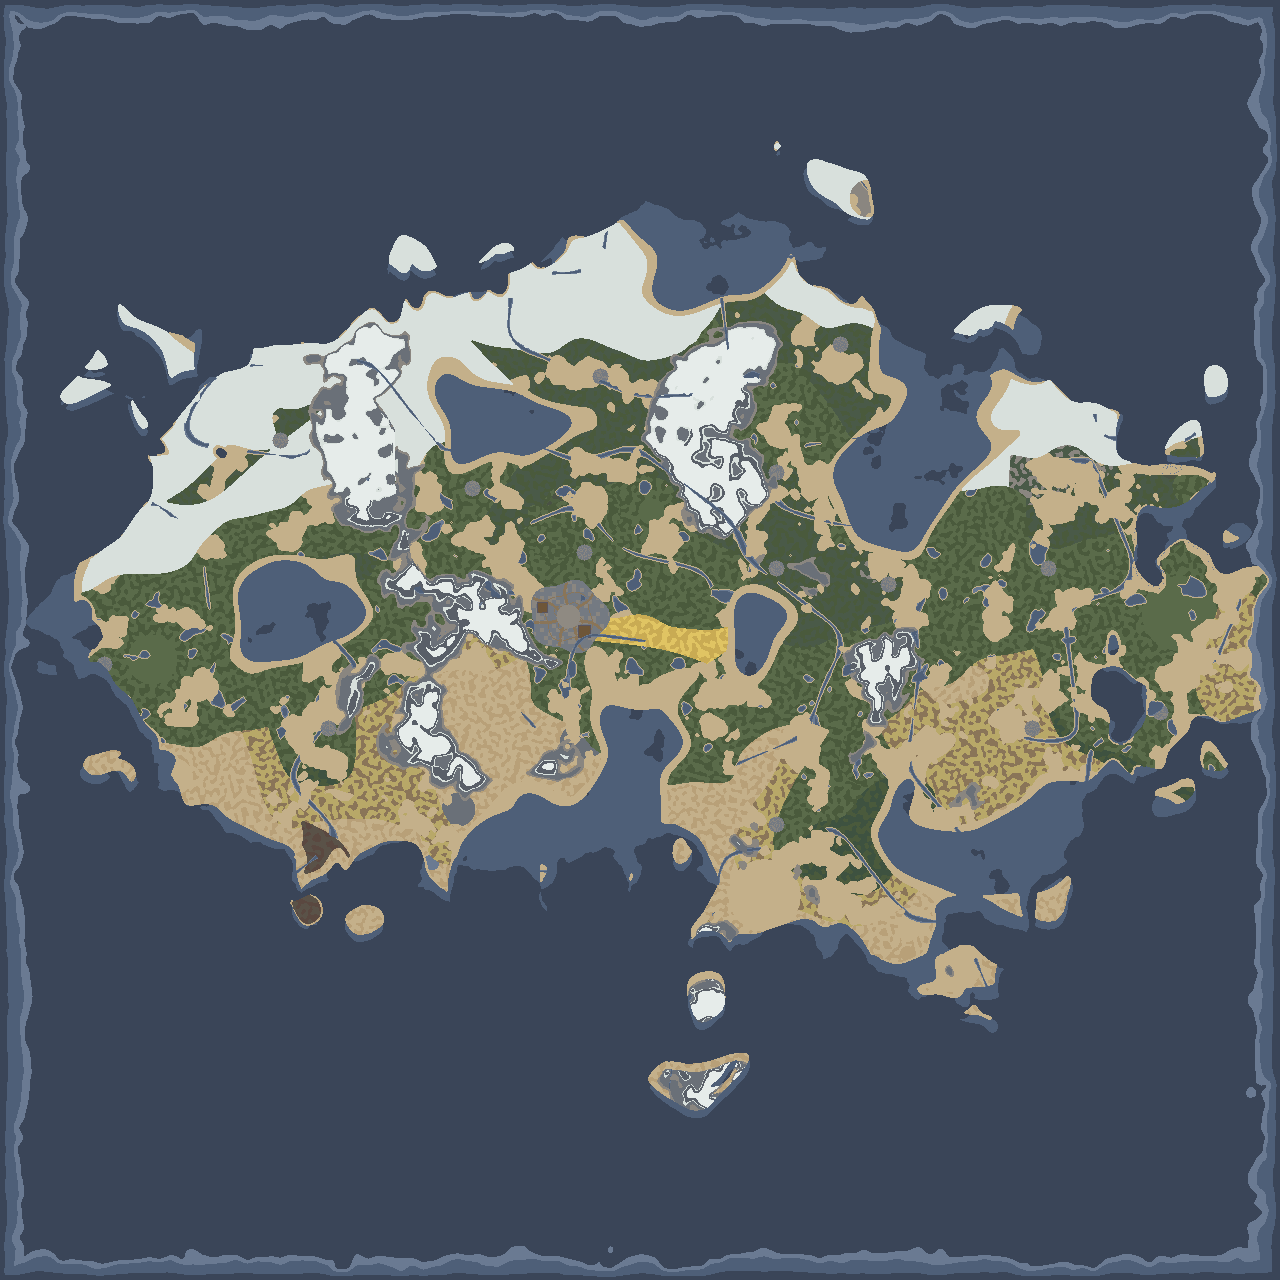
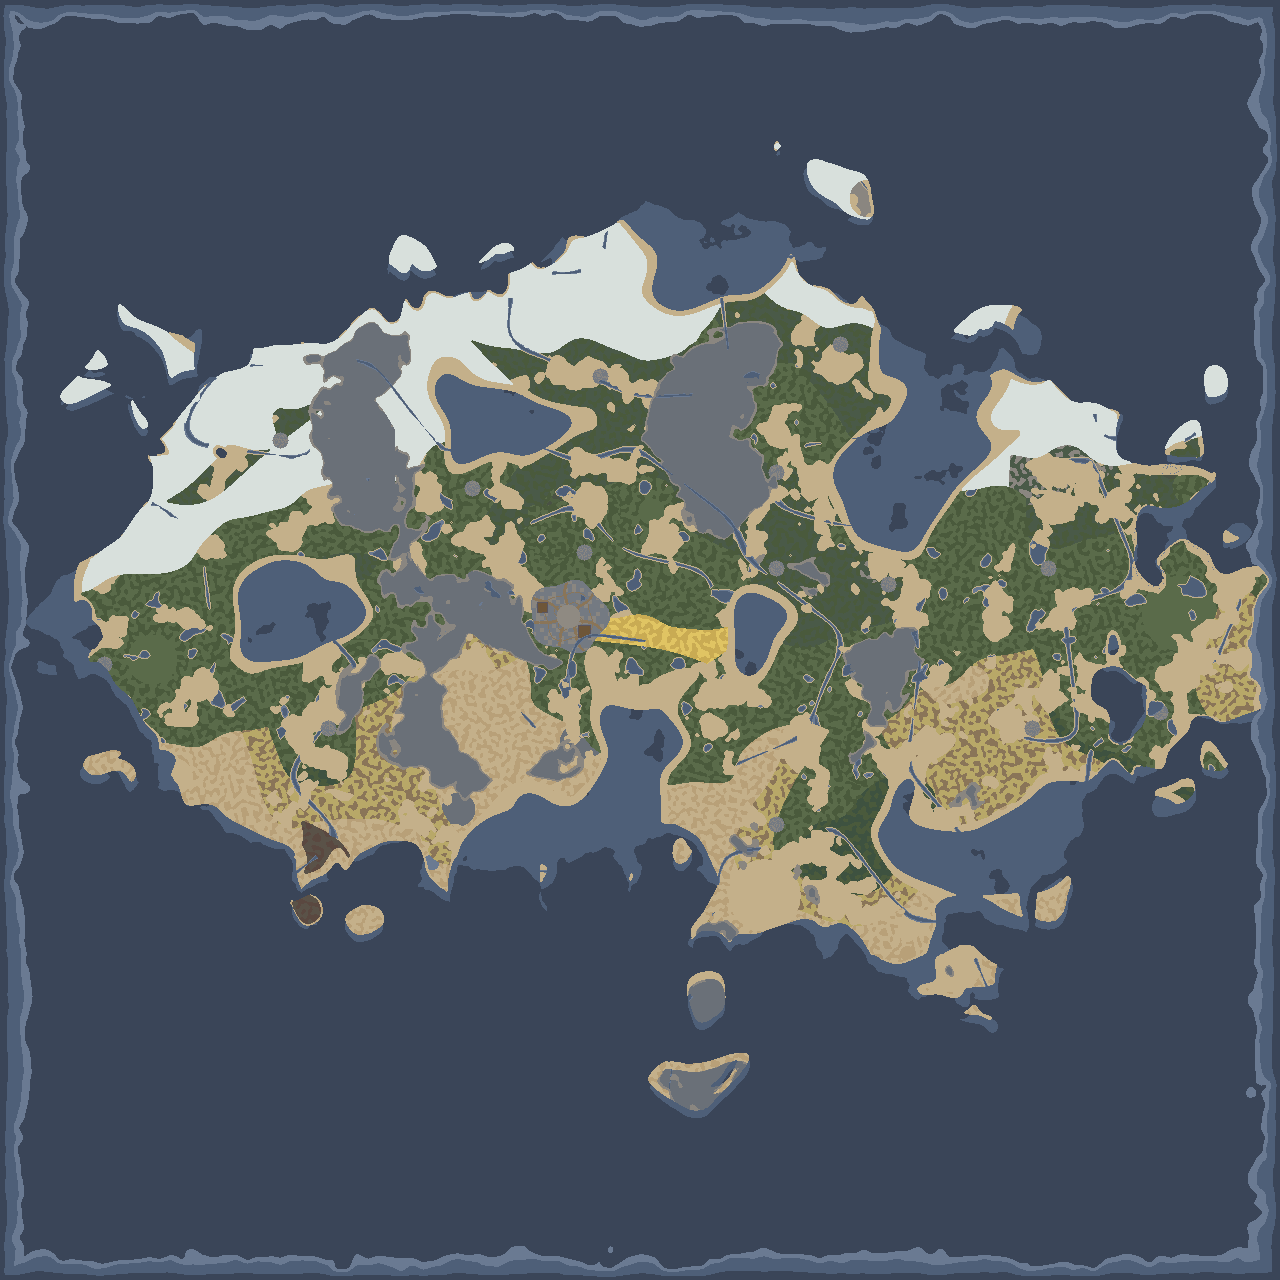
fix(world): peak picking + mountain occlusion revert; noclip; macOS tooling
Elevation picking: ELEV_PICK_MAX 42->52 so the cursor/click picker searches
the full peak range — tall summits resolve to the real tile instead of the
flat tile in front (which read elev 0).

Mountains: revert the per-chunk elevated-mesh overlay split (it black-holed
terrain); raised terrain renders through the base mesh again. The occlusion
overlay is left in place but disabled until its render bug is fixed. The
short-lived elevation "wall floor" / climb-step=2 experiment is reverted, and
aldreth.world is re-baked from the restored elevation code.

Admin: noclip fly toggle (2x speed, ignores terrain and pathfinding).

Tooling: add cross-platform dev.sh launcher (auto-detects Godot on macOS/
Linux/Git-Bash) and document Apple Silicon (M-series) setup in the README so
the project can be developed and run on a Mac.

diff --git a/README.md b/README.md
@@ -5,15 +5,44 @@ recreated from the Bloobs Adventure Idle data export.
 
 ## Run
 
-```powershell
-# Play
-C:\Dev\Godot\Godot_v4.6.3-stable_win64.exe --path C:\Dev\bloobs-godot
+Needs **Godot 4.6** (standard build — pure GDScript, no .NET/C#). The project is
+cross-platform: it runs on macOS (Apple Silicon included), Linux, and Windows with
+the same engine.
 
-# Re-import game data from the export (writes res://data/*.json)
-C:\Dev\Godot\Godot_v4.6.3-stable_win64_console.exe --headless --path C:\Dev\bloobs-godot --script res://tools/import_bloobs_data.gd
+The `dev.sh` launcher finds your Godot binary so you don't hardcode a path. Works
+in any bash shell (macOS/Linux terminals, or Git Bash on Windows):
 
-# Headless test suite (49 checks across data, gathering, combat, crafting, save, UI)
-C:\Dev\Godot\Godot_v4.6.3-stable_win64_console.exe --headless --path C:\Dev\bloobs-godot res://tools/validate.tscn
+```bash
+./dev.sh run        # play the game
+./dev.sh editor     # open the Godot editor
+./dev.sh validate   # headless test suite
+./dev.sh bake       # re-bake the finite overworld (headless, CPU-only)
+./dev.sh atlas      # re-bake the sprite atlas (opens a window — needs a GPU)
+```
+
+If Godot isn't on your `PATH`, point the launcher at it: `GODOT=/path/to/Godot ./dev.sh run`.
+
+### Develop on a Mac (Apple Silicon — M1…M5)
+
+1. Download **Godot 4.6, macOS, Standard** from <https://godotengine.org/download/macos/>
+   and drag `Godot.app` into `/Applications`. (`dev.sh` auto-detects it there.)
+2. Clone the repo and `cd` into it.
+3. `./dev.sh editor` to open it, or `./dev.sh run` to play. First launch reimports
+   assets into `.godot/` (gitignored) — that's normal and only happens once.
+
+The renderer is **Forward+**, which runs natively on Apple Silicon via Metal — no
+config change needed. The baked overworld (`data/world/baked/`) and sprite atlas
+(`generated/sprite_atlas/`) are committed, so the game runs without re-baking; only
+re-run `./dev.sh bake` / `./dev.sh atlas` after editing worldspec or art.
+
+Raw invocation, if you skip the launcher:
+
+```bash
+# macOS
+/Applications/Godot.app/Contents/MacOS/Godot --path . res://tools/validate.tscn --headless
+
+# Windows
+C:\Dev\Godot\Godot_v4.6.3-stable_win64_console.exe --headless --path . res://tools/validate.tscn
 ```
 
 ## Architecture
@@ -57,5 +86,4 @@ documented in [docs/DATA_GAPS.md](docs/DATA_GAPS.md).
   the fishing sector), and OSRS-style HUD. Same sims as the Melvor UI —
   `scenes/main.tscn` remains for headless UI smoke tests.
 
-Run the game: "C:\Dev\Godot\Godot_v4.6.3-stable_win64.exe" --path C:\Dev\imota-idle
-Run the editor: "C:\Dev\Godot\Godot_v4.6.3-stable_win64.exe" --path C:\Dev\imota-idle res://tools/world_editor.tscn
+Run the game: `./dev.sh run` &nbsp;·&nbsp; Open the editor: `./dev.sh editor` &nbsp;·&nbsp; World editor tool: `./dev.sh world_editor`